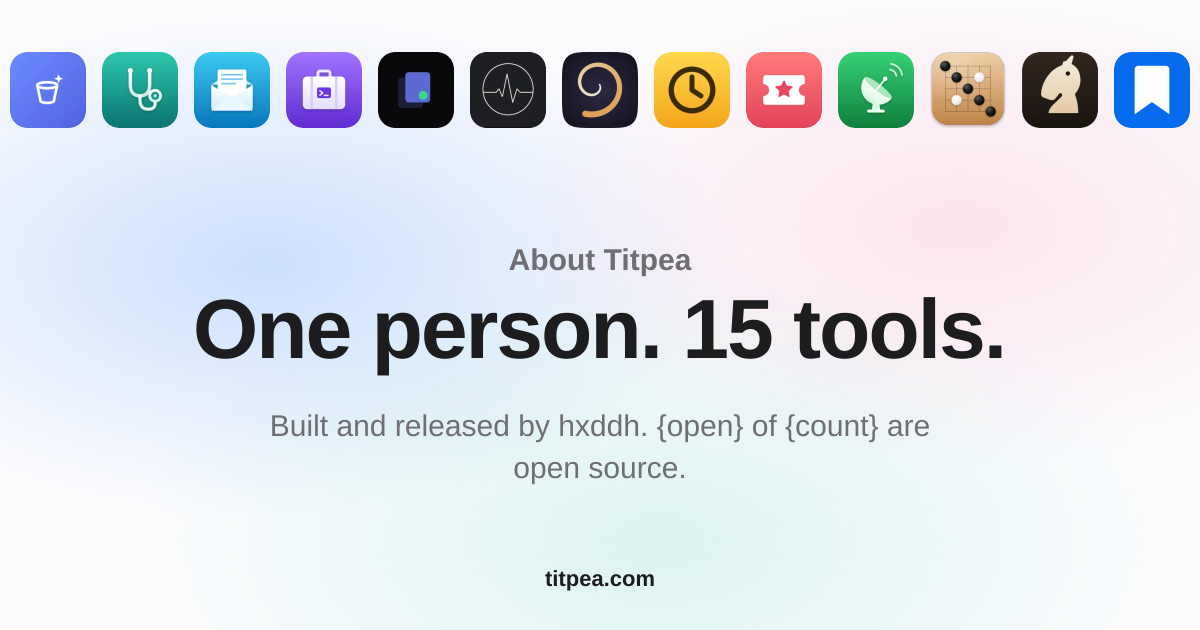
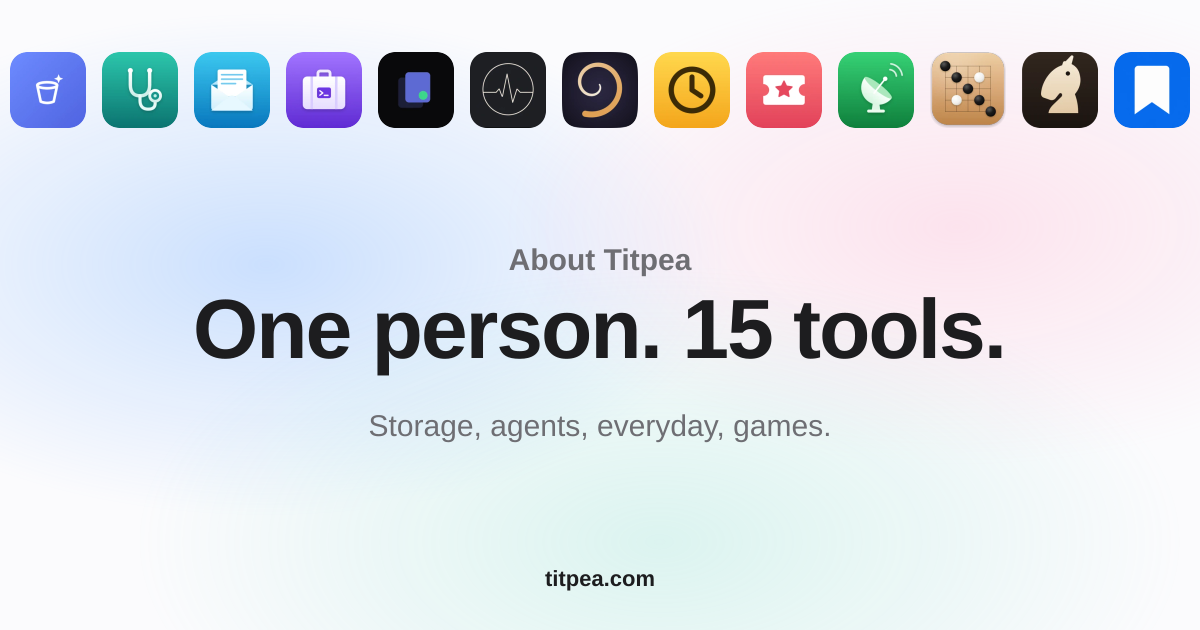
About: where the tools help; Experimental becomes Games site-wide (#176)
- About drops 'Three habits' (each named only a few products) and the
  open-source lede. The lede now only names the four lines; a new 'Where
  they help.' / '用在哪里' section gives each line two short sentences
  (when you reach for it, what it changes) and its products as icon links,
  listed from the catalog.
- The fourth line is Games (游戏): Chessboard and Goban move there from
  Everyday, with World Machine. Header, Home, footer and related-product
  groups follow.
- Visual targets and baselines move from principles to scenes; DESIGN.md
  updated.

Claude-Session: https://claude.ai/code/session_01JmaFxrCaTr7J8dy17sm4dB

Changed region(s): [[0.2158, 0.6635, 0.7708, 0.6937], [0.4317, 0.7238, 0.5858, 0.7841]]

diff --git a/src/content/site.ts b/src/content/site.ts
@@ -69,9 +69,9 @@ type Ui = {
   aboutHeadline: string;
   aboutLead: string;
   contactLabel: string;
-  /** Three habits backed by product facts, plus the open-source line (`{open}` of `{count}`, `{licenses}`). */
-  aboutPrinciplesTitle: string;
-  aboutPrinciples: Array<{ title: string; body: string }>;
+  /** One block per product line: when you reach for it, and what it changes. The products are listed from the catalog. */
+  aboutScenesTitle: string;
+  aboutScenes: Record<Line, { when: string; value: string }>;
   aboutReleasesTitle: string;
   aboutReleasesMore: string;
   aboutFeed: string;
@@ -108,7 +108,7 @@ export const ui: Record<Locale, Ui> = {
       storage: "Storage",
       agents: "Agents",
       everyday: "Everyday",
-      experimental: "Experimental",
+      games: "Games",
       external: "External",
     },
     productIndex: "Independent software by hxddh",
@@ -126,26 +126,30 @@ export const ui: Record<Locale, Ui> = {
     aboutTitle: "About",
     aboutMetaTitle: "About Titpea — hxddh",
     aboutDescription:
-      "Titpea is one person’s product shelf: storage investigations, agents, and small everyday apps, built and released by hxddh.",
+      "Titpea is one person’s product shelf: object storage, agents, everyday apps, and games, built and released by hxddh.",
     aboutEyebrow: "About Titpea",
     aboutHeadline: "One person. {count} tools.",
-    aboutLead: "Built and released by hxddh. {open} of {count} are open source.",
+    aboutLead: "Storage, agents, everyday, games.",
     contactLabel: "Contact links",
-    aboutPrinciplesTitle: "Three habits.",
-    aboutPrinciples: [
-      {
-        title: "Evidence in view",
-        body: "Storage Agent keeps the checks beside the answer. PageWise cites the page.",
+    aboutScenesTitle: "Where they help.",
+    aboutScenes: {
+      storage: {
+        when: "A bucket misbehaves, or a million objects need counting.",
+        value: "Find the cause with read-only tools and keep the evidence; list large buckets fast.",
       },
-      {
-        title: "Keys and files stay local",
-        body: "Storage Agent keeps keys in a local vault. PageWise reads files on your disk. Easier Bookmarks needs no server.",
+      agents: {
+        when: "Several agents are running, or you want to keep up with the field.",
+        value: "See which one is waiting for you, carry a session to another machine, read sourced weekly briefs.",
       },
-      {
-        title: "Read before write",
-        body: "Storage Agent’s tools are read-only. StorageOps does not change storage.",
+      everyday: {
+        when: "Reading PDFs and foreign pages, tidying bookmarks, checking times and ratings.",
+        value: "Answers you can check against the page; a translation only when you ask for it.",
       },
-    ],
+      games: {
+        when: "Chess, Gomoku, or a small world of your own.",
+        value: "Review the game when it ends; the world keeps going while you are away.",
+      },
+    },
     aboutReleasesTitle: "Latest releases.",
     aboutReleasesMore: "All releases",
     aboutFeed: "Follow releases (Atom)",
@@ -180,7 +184,7 @@ export const ui: Record<Locale, Ui> = {
       storage: "存储",
       agents: "Agent",
       everyday: "日常",
-      experimental: "实验",
+      games: "游戏",
       external: "外部链接",
     },
     productIndex: "hxddh 独立开发的软件",
@@ -197,26 +201,30 @@ export const ui: Record<Locale, Ui> = {
     aboutMore: "关于 hxddh",
     aboutTitle: "关于",
     aboutMetaTitle: "关于 Titpea — hxddh",
-    aboutDescription: "Titpea 是一个人的产品架：对象存储排查、Agent 和日常小工具，由 hxddh 开发并发布。",
+    aboutDescription: "Titpea 是一个人的产品架：对象存储、Agent、日常小工具和游戏，由 hxddh 开发并发布。",
     aboutEyebrow: "关于 Titpea",
     aboutHeadline: "一个人，{count} 个工具",
-    aboutLead: "由 hxddh 开发并发布，其中 {open} 个开源。",
+    aboutLead: "存储、Agent、日常、游戏。",
     contactLabel: "联系方式",
-    aboutPrinciplesTitle: "三个做法",
-    aboutPrinciples: [
-      {
-        title: "证据摆在眼前",
-        body: "Storage Agent 把检查放在结论旁边。PageWise 给出页引用。",
+    aboutScenesTitle: "用在哪里",
+    aboutScenes: {
+      storage: {
+        when: "桶出了问题，或要盘点上百万个对象。",
+        value: "只读查清原因、留下依据；大桶也能很快列清。",
       },
-      {
-        title: "密钥和文件留在本机",
-        body: "Storage Agent 把密钥放在本机保险库。PageWise 读取你磁盘上的文件。Easier Bookmarks 不经服务器。",
+      agents: {
+        when: "同时跑着几个 Agent，或想跟上这个领域。",
+        value: "一眼看出哪个在等你；会话换台机器接着用；每周动态附来源。",
       },
-      {
-        title: "只读优先",
-        body: "Storage Agent 的工具只读。StorageOps 不修改存储。",
+      everyday: {
+        when: "读 PDF 和外文网页，整理书签，看时间和评分。",
+        value: "回答能回到原页核对；译文只在需要时出现。",
       },
-    ],
+      games: {
+        when: "下国际象棋、五子棋，或者养一个小世界。",
+        value: "下完能复盘；你离开时，世界仍在继续。",
+      },
+    },
     aboutReleasesTitle: "最近的发布",
     aboutReleasesMore: "全部发布",
     aboutFeed: "订阅发布（Atom）",

diff --git a/src/lib/pages.ts b/src/lib/pages.ts
@@ -435,7 +435,16 @@ export type AboutPageModel = {
   seo: PageSeo;
   language: PageLanguageLink;
   hero: { eyebrow: string; title: string; lead: string };
-  principles: { title: string; items: Array<{ title: string; body: string }> };
+  scenes: {
+    title: string;
+    items: Array<{
+      line: Line;
+      label: string;
+      when: string;
+      value: string;
+      products: Array<{ name: string; href: string; icon: string }>;
+    }>;
+  };
   releases: {
     title: string;
     moreLabel: string;
@@ -462,17 +471,14 @@ export type AboutPageModel = {
   expectedText: string[];
 };
 
-const licensePattern = /\b(MIT|Apache-2\.0|GPLv3)\b/;
-
 export function aboutPage(locale: Locale): AboutPageModel {
   const copy = ui[locale];
   const path = pathFor(locale, "about");
   const alternatePath = pathFor(otherLocale(locale), "about");
   const count = String(products.length);
   const released = products.filter((product) => versionOf(product.slug));
-  const licensed = products.filter((product) => licensePattern.test(product.en.meta));
   const headline = copy.aboutHeadline.replace("{count}", count);
-  const lead = copy.aboutLead.replace("{open}", String(licensed.length)).replace("{count}", count);
+  const lead = copy.aboutLead;
   return {
     kind: "about",
     locale,
@@ -501,7 +507,21 @@ export function aboutPage(locale: Locale): AboutPageModel {
     }),
     language: languageLink(locale, alternatePath),
     hero: { eyebrow: copy.aboutEyebrow, title: headline, lead },
-    principles: { title: copy.aboutPrinciplesTitle, items: copy.aboutPrinciples },
+    scenes: {
+      title: copy.aboutScenesTitle,
+      items: lines.map((line) => ({
+        line,
+        label: copy.groups[line],
+        ...copy.aboutScenes[line],
+        products: products
+          .filter((product) => product.line === line)
+          .map((product) => ({
+            name: product[locale].title,
+            href: pathFor(locale, product.slug),
+            icon: product.icon,
+          })),
+      })),
+    },
     releases: {
       title: copy.aboutReleasesTitle,
       moreLabel: copy.aboutReleasesMore,

diff --git a/src/styles/pages.css b/src/styles/pages.css
@@ -257,13 +257,88 @@
   padding-bottom: 0;
 }
 
-.about-principles,
+.about-scenes,
 .about-releases {
   padding-top: var(--section-y);
 }
 
-.about-principles .feature-grid {
+/* Where they help: one card per product line, its products as small links. */
+.scene-grid {
+  display: grid;
+  grid-template-columns: repeat(2, minmax(0, 1fr));
+  gap: 16px;
   margin-top: 48px;
+}
+
+.scene-card {
+  display: flex;
+  flex-direction: column;
+  padding: 28px;
+  border-radius: var(--radius-card);
+  background: var(--paper-raised);
+}
+
+.scene-card h3 {
+  margin: 0;
+  font-size: var(--text-card-title);
+  letter-spacing: -0.02em;
+}
+
+.scene-when {
+  margin: 10px 0 0;
+  color: var(--ink);
+  font-size: var(--text-list-body);
+  line-height: 1.5;
+}
+
+.scene-value {
+  margin: 6px 0 0;
+  color: var(--ink-2);
+  font-size: var(--text-card-body);
+  line-height: 1.55;
+}
+
+.scene-products {
+  display: flex;
+  flex-wrap: wrap;
+  gap: 8px;
+  margin: auto 0 0;
+  padding: 20px 0 0;
+  list-style: none;
+}
+
+.scene-products a {
+  display: inline-flex;
+  align-items: center;
+  gap: 8px;
+  min-height: 44px;
+  padding: 0 14px 0 8px;
+  border-radius: var(--radius-pill);
+  background: var(--paper);
+  color: var(--ink);
+  font-size: var(--text-small);
+  font-weight: 500;
+}
+
+.scene-products a:hover {
+  text-decoration: none;
+  box-shadow: 0 0 0 1px var(--soft-line);
+}
+
+.scene-products img {
+  width: 28px;
+  height: 28px;
+  border-radius: 22.5%;
+}
+
+@media (max-width: 720px) {
+  .scene-grid {
+    grid-template-columns: 1fr;
+  }
+
+  .scene-card {
+    padding: 22px;
+  }
 }
 
 /* Release list: newest first, one hairline row per product. */

diff --git a/src/content/schema.ts b/src/content/schema.ts
@@ -5,8 +5,8 @@
 export type Locale = "en" | "zh";
 export const locales: Locale[] = ["en", "zh"];
 
-export type Line = "storage" | "agents" | "everyday" | "experimental";
-export const lines: Line[] = ["storage", "agents", "everyday", "experimental"];
+export type Line = "storage" | "agents" | "everyday" | "games";
+export const lines: Line[] = ["storage", "agents", "everyday", "games"];
 
 export type Link = { label: string; href: string };
 export type Image = { src: string; alt: string; width: number; height: number };

diff --git a/src/content/products/world-machine.ts b/src/content/products/world-machine.ts
@@ -2,7 +2,7 @@ import { defineProduct } from "../schema";
 
 export default defineProduct({
   slug: "world-machine",
-  line: "experimental",
+  line: "games",
   repo: "hxddh/world-machine",
   icon: "/assets/icons/world-machine.webp",
   og: "/assets/og-world-machine.png",

diff --git a/src/content/products/goban.ts b/src/content/products/goban.ts
@@ -2,7 +2,7 @@ import { defineProduct } from "../schema";
 
 export default defineProduct({
   slug: "goban",
-  line: "everyday",
+  line: "games",
   repo: "hxddh/goban",
   icon: "/assets/icons/goban.webp",
   og: "/assets/og-goban.png",

diff --git a/src/content/products/chessboard.ts b/src/content/products/chessboard.ts
@@ -2,7 +2,7 @@ import { defineProduct } from "../schema";
 
 export default defineProduct({
   slug: "chessboard",
-  line: "everyday",
+  line: "games",
   featured: {
     image: {
       src: {

diff --git a/DESIGN.md b/DESIGN.md
@@ -42,14 +42,14 @@ Every page uses the same few parts. Build new content from them before inventing
 
 - The hero opens on the shelf of app icons (two rows of seven, every product), each a link to its product whose name appears in a small glass label when pointed at or focused (above the top row, below the bottom row), then `Independent software by hxddh`, the contents line (`Agents and tools.` / `Agent 和工具`), and a lede that names the range in three fragments. Two actions: `Browse all tools` jumps to the catalog; `About hxddh ›` is the text link.
 - `Selected work` / `主要作品` introduces two showcase rows, Storage Agent and Chessboard: a professional tool and an everyday one, so the range shows in two picks. Each row is role kicker, product name, one-liner, `Learn more ›`, then the full captured screenshot, and the whole row is one link. Three is the ceiling; a new pick replaces one rather than adding a row. When the app's UI shows words, each locale gets a capture in its own language (`featured.image.src` per locale). Phones show the same whole screenshot: a crop cut sentences mid-line and read as a broken image.
-- `More tools` / `更多工具` groups the rest into Storage, Agents, Everyday, and Experimental. It is an index, one centered column: each product is one row, all of it a link, with its icon, name, one line (`catalog.text`), and a `›`, rows split by hairlines. No kicker, tag, or date: those live on the product page. A product belongs to one line, and the header dropdowns use the same four lines.
+- `More tools` / `更多工具` groups the rest into Storage, Agents, Everyday, and Games. It is an index, one centered column: each product is one row, all of it a link, with its icon, name, one line (`catalog.text`), and a `›`, rows split by hairlines. No kicker, tag, or date: those live on the product page. A product belongs to one line, and the header dropdowns use the same four lines.
 
 ## About
 
-The page answers, in order: what Titpea is, how the tools behave, what shipped lately, and how to reach the person behind it. The product list lives on Home; About does not repeat it.
+The page answers, in order: what Titpea is, where its tools help, what shipped lately, and how to reach the person behind it. Home lists the products; About groups them by the work they help with.
 
-- Hero: `About Titpea` / `关于 Titpea`, the claim `One person. {count} tools.` / `一个人，{count} 个工具` with the live product count, and a one-line lede of facts: who builds and releases them and how many are open source (counted from each product's meta line). It does not repeat Home's lede. No actions in the hero.
-- `Three habits.` / `三个做法`: three cards, each naming the products it is true of (Storage Agent, PageWise, StorageOps, Easier Bookmarks), so no card claims something for all tools that only some do.
+- Hero: `About Titpea` / `关于 Titpea`, the claim `One person. {count} tools.` / `一个人，{count} 个工具` with the live product count, and a lede that only names the four lines: `Storage, agents, everyday, games.` / `存储、Agent、日常、游戏。` No actions in the hero.
+- `Where they help.` / `用在哪里`: one card per product line, two short sentences each (when you reach for it; what it changes), then that line's products as small icon links, taken from the catalog so a new product appears on its own. Every claim is one its product page already makes. No list of principles: a habit that only some products share is not claimed for all.
 - `Latest releases.`, with no sub: the six newest, with icon, tag, date (on phones too), and the first quoted highlight in the page's language, or none; the rest fold under `All releases (n)`.
 - Closing band: `Say hello.` with GitHub, Email, and the Atom feed.
 - No personal details beyond what the owner has published; nothing about the person is inferred.
@@ -164,7 +164,7 @@ Omni says each thing once, in as few words as the fact allows. The figures and t
   - `check:dist` (build output): CSP and headers, one h1, landmarks, image sizes and alt text, valid structured data, Chinese headings, sitemap.
   - `qa:pages`: overflow, headline and lede lines, CTAs, sticky local nav, anchors, mobile menu.
   - `a11y:check`: axe-core (WCAG 2.1 A/AA and best practices) on every page, light and dark, desktop and phone; any violation fails.
-  - `visual:check`: seven screens compared loosely: the page tops, the zh menu, an FAQ, About's principles (desktop and zh phone), and 404. Section targets crop to their own section so release data synced at build never moves them.
+  - `visual:check`: seven screens compared loosely: the page tops, the zh menu, an FAQ, About's scenes (desktop and zh phone), and 404. Section targets crop to their own section so release data synced at build never moves them.
   - Browser QA and the visual check run on pull requests and on every push to `main`; a push that fails them does not deploy.
 - Still review by eye, in this order:
   1. First read: from the first viewport alone, does the reader know what the product changes?
@@ -176,7 +176,7 @@ Omni says each thing once, in as few words as the fact allows. The figures and t
 
 ## Content release, September 2026
 
-- Home groups are Storage, Agents, Everyday, and Experimental. Keep experimental maturity visible.
+- Home groups are Storage, Agents, Everyday, and Games (Chessboard, Goban, World Machine). World Machine keeps its pre-alpha maturity visible on its own page.
 - Storage Agent leads with the existing investigation result screenshot. The welcome image is a secondary starting-point illustration.
 - Product copy starts with an action and result. Preserve conditions on model data, waiting signals, and successfully persisted sessions. Do not promise zero data loss from a recovery feature.
 - Keep each metadata segment together when wrapping, including license names.
